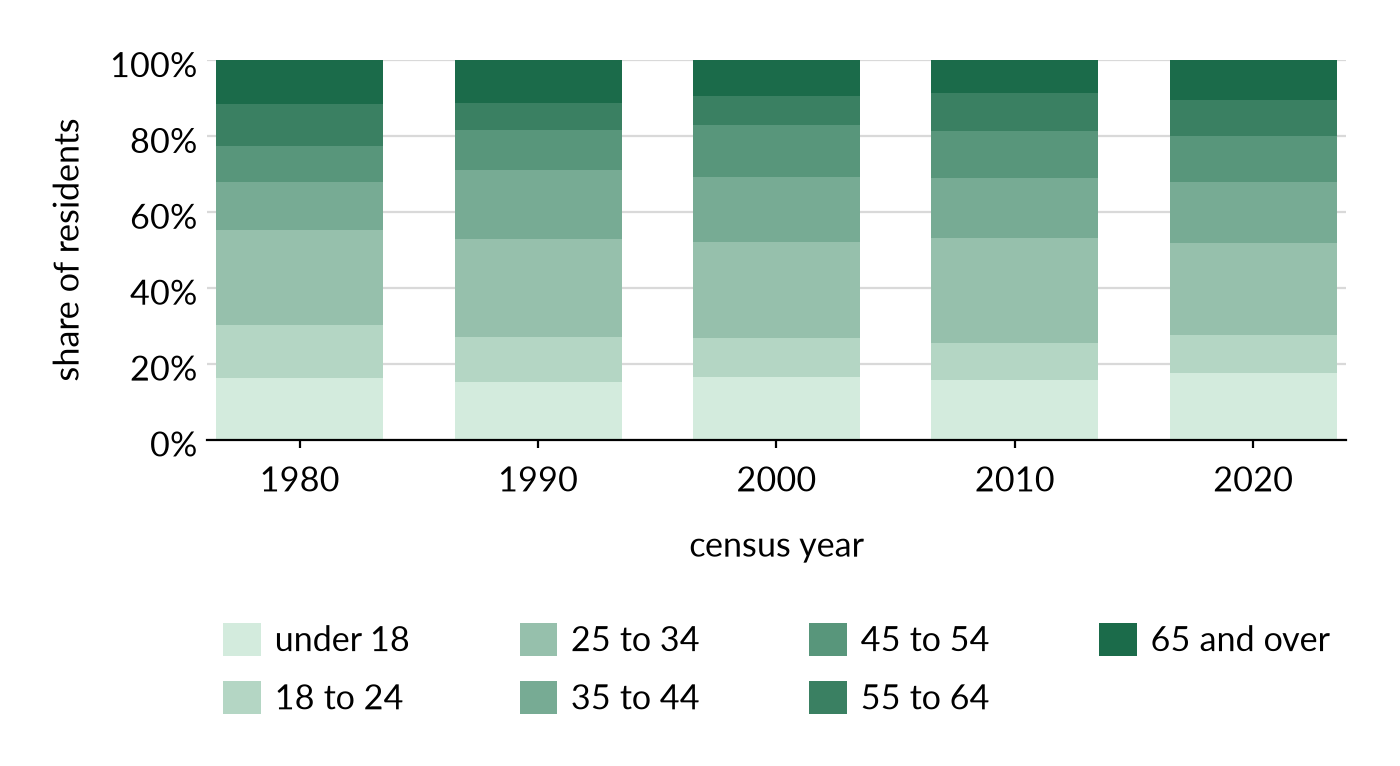
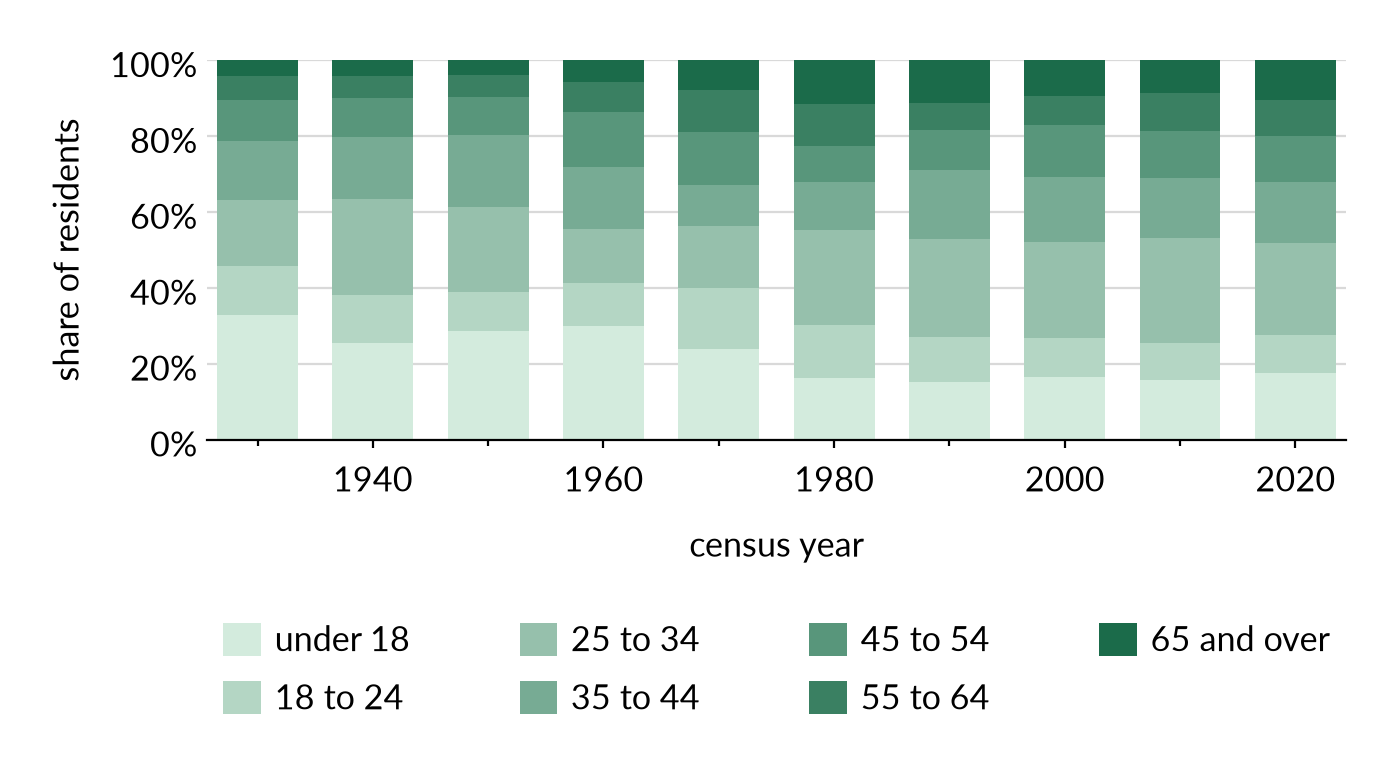
adults-before-1980 settled: residents_by_age and the turnout share panel start at 1930
residents_by_age draws the seven bands at every census from 1930, labelled
every twentieth year; panel (b) of turnout starts at the 1931 election,
its adults 21 and over through 1970 and 18 and over from 1971, with the
change carried in the caption as residents_by_race carries 1980's.
docs/residents.md and docs/voters.md say what backs each year; the raw
folder's README lists the sixteen scans fetched on demand.

diff --git a/code/analysis/residents_by_age.py b/code/analysis/residents_by_age.py
@@ -1,4 +1,4 @@
-"""Residents by age band, 1980-2020 -> figures/residents_by_age.pdf, .png
+"""Residents by age band, 1930-2020 -> figures/residents_by_age.pdf, .png
 
 One panel: every resident, as stacked bars in style.RESIDENT_AGES with the
 youngest band at the base. Shares rather than counts, and children included
@@ -10,7 +10,7 @@ import charts
 import paths
 import style
 
-FIRST = 1980         # the first census that reports age this way
+FIRST = 1930         # the first census whose county age table is held
 BARS = 7             # years per bar, as on the other census figures
 
 for profile in style.PROFILES:
@@ -25,7 +25,7 @@ for profile in style.PROFILES:
     stacked = charts.series(shares, style.RESIDENT_AGES)
     charts.stacked_bars(ax, c["year"], stacked, width=BARS)
     charts.shares(ax)
-    charts.years(ax, FIRST, 2020, bars=BARS)
+    charts.years(ax, FIRST, 2020, step=20, bars=BARS)
 
     charts.legend(fig, stacked, ncol=4)
     paths.save(fig, "residents_by_age", profile)

diff --git a/code/archive.py b/code/archive.py
@@ -3,7 +3,7 @@
     .venv/bin/python code/archive.py            # dry run: report, move nothing
     .venv/bin/python code/archive.py --apply    # file the folder, write index.md, build the zip
 
-The archive is the repository at HEAD, the six census scans data/contents.csv
+The archive is the repository at HEAD, the census scans data/contents.csv
 marks in_git = no, and the Drive documents folder: a copy of every source the
 report cites that no number is taken from. Its index is generated from
 paper/sources.bib and data/contents.csv, never written by hand, so it cannot

diff --git a/code/analysis/turnout.py b/code/analysis/turnout.py
@@ -39,7 +39,7 @@ for profile in style.PROFILES:
     charts.shares(b, label="share of adults")
     b.set_title("(b) share of adults")
     charts.years(a, 1930, 2020, step=20, label="November election", through=2028)
-    charts.years(b, 1980, 2020, step=20, label="November election", through=2028)
+    charts.years(b, 1930, 2020, step=20, label="November election", through=2028)
 
     charts.legend(fig, dict([style.PRESIDENT, *style.CYCLE.values()]), ncol=3)
     paths.save(fig, "turnout", profile)

diff --git a/docs/residents.md b/docs/residents.md
@@ -15,8 +15,6 @@ spike: the figure shows the size of the Board, not who sat.
 
 - Retrocession is dated 1846 or 1847 depending on the source; the report has
   to pick one (`retrocession-date`).
-- The age bands start at 1980, because nothing earlier is held in a
-  machine-readable form (`adults-before-1980`).
 
 Each is a row in `docs/questions.csv`, with an owner and what would settle it.
 
@@ -232,9 +230,9 @@ to 0.79 while adults per household barely moved (`censushh6`). The children
 born to the young families who filled Arlington in the 1940s and 50s turned
 18 across the 1970s and left, to careers and households of their own, and
 fewer were born behind them. A built-out inner suburb of small units feels
-that hardest. The Arlington-specific evidence, the under-18 count in the
-1970 and 1980 census age tables, is what `adults-before-1980` in
-docs/questions.csv would also transcribe.
+that hardest. Arlington's own age bands show it: residents under 18 fell from
+41,564 in 1970 to 24,969 in 1980, from 24 to 16 per cent of the county, while
+those 18 and over fell only from 132,720 to 127,630.
 
 ### What the Black share shows
 
@@ -255,21 +253,60 @@ How much of this the prose says is an open question.
 
 ---
 
-## Age, 1980 onward
+## Age, 1930 onward
 
-`residents.csv` carries the county in seven age bands from 1980: `ageunder18`,
+`residents.csv` carries the county in seven age bands from 1930: `ageunder18`,
 `age18to24`, `age25to34`, `age35to44`, `age45to54`, `age55to64` and
-`age65plus`. They sum to `total` at every census, and `residents_by_age`
-draws them as shares of it. There is no `adults` column: the adult
+`age65plus`. With `ageunknown` they sum to `total` at every census, and
+`residents_by_age` draws them as shares of it. `ageunknown` is the 14 people
+whose age the 1930 census did not record; from 1940 the Bureau's tables print
+no such line, and the column is 0. There is no `adults` column: the adult
 population is the six bands above `ageunder18`, summed where something needs
 it.
 
-**The cuts are the ones every census from 1980 shares.** 1980's Summary Tape
-File prints 35 to 44, 45 to 54, 65 to 74 and 75 to 84 as single groups, so
-no cut at 40, 50, 70 or 80 exists to take without splitting a published
-group, which would mean inventing a number. Every cut the bands do use — 18,
-25, 35, 45, 55, 65 — is a boundary printed in all five censuses, so no year
-is interpolated and the bands are the same object in 1980 as in 2020.
+**The cuts are the ones every census from 1930 shares.** 1930 prints 35 to
+44, 45 to 54, 55 to 64 and 65 to 74 as single groups, and 1980 does the same
+for 35 to 44, 45 to 54, 65 to 74 and 75 to 84, so no cut at 40, 50, 70 or 80
+exists to take without splitting a published group, which would mean
+inventing a number. Every cut the bands do use — 18, 25, 35, 45, 55, 65 — is
+a boundary printed for all ten censuses, so no year is interpolated and the
+bands are the same object in 1930 as in 2020.
+
+**1930 to 1970 are keyed in from the census volumes**, one file per printed
+table under `data/transcribed/by_claude/us_census_bureau/`, every line of
+Arlington's block as printed. Each was read off the rendered page and ties
+out: every run of lines the table prints in full sums to the county total it
+is printed against, and that total is the one the `total` column already
+holds.
+
+| Year | Age from | Tables |
+|---|---|---|
+| 1930 | `census1930v3p2` | Table 11, age, p.1150; Table 13, composition, p.1161 |
+| 1940 | `census1940v2p7` | Table 22, age, p.173; Table 21, composition, p.164 |
+| 1950 | `census1950va` | Table 41, age, p.46-74 |
+| 1960 | `census1960va` | Table 27, age, p.48-76 |
+| 1970 | `census1970va` | Table 35, age, p.48-122 |
+
+1950 to 1970 print a line at 18 in the age table itself: single years to 20
+in 1960 and 1970, and "16 and 17" and "18 and 19" beneath 15 to 19 in 1950.
+1930 and 1940 do not; their age tables run in five-year groups, and 15 to 19
+crosses 18. Each volume's composition table prints the population at the
+ages that cut there, so no band is estimated:
+
+- **1940.** Table 21 prints the persons 5 and 6, 7 to 13, 14 and 15, 16 and
+  17, 18 to 20, and 21 to 24 years old. `ageunder18` is Table 22's under 5
+  and Table 21's four groups to 17; `age18to24` is Table 21's 18 to 20 and
+  21 to 24. The two tables agree: Table 21's six groups make Table 22's 5
+  to 24, 16,730, and the 1950 volume's 1940 column prints 16 and 17 as 1,463,
+  as Table 21 does.
+- **1930.** Table 13 prints the persons 18 to 20 and the men and women 21 and
+  over. Everyone of known age is under 18, 18 to 20, or 21 and over, so
+  `ageunder18` is the county less the 14 of unknown age and those two
+  counts, and `age18to24` is 18 to 20 and 21 and over less Table 11's groups
+  from 25. Each is checked to lie between the printed groups either side of
+  its cut. The two counts each have a second reading: 18 to 20 against the
+  number attending school and the per cent printed beneath it, and 21 and
+  over against the 1940 volume's 1930 column, which prints 16,443.
 
 **Where each census's ages come from.** 1980 and 1990 from the archived
 Summary Tape Files, which name their age groups; 2000, 2010 and 2020 from
@@ -287,24 +324,24 @@ Both are `censusapi`.
 | 2010 | `censusapi` | SF1 P12, sex by age |
 | 2020 | `censusapi` | DHC P12, sex by age |
 
-**Three guards, because a mis-mapped band would be silent.** The bands must
+**Four guards, because a misread or mis-mapped band would be silent.** A
+keyed-in table whose printed runs do not sum to their totals, or a line whose
+men and women do not make it, is a misreading and stops the build. The bands must
 name every age group the source table has, exactly once — a group left out
 of all seven would simply never be counted, and the county total would still
 tie. The bands must then sum to the same county total the `total` column
 carries. And `turnout.csv`, which counts adults from a different table
 altogether (race by 18 and over), must agree exactly with the six adult
-bands summed; it does, at all five censuses. `code/tests.py` reintroduces
-each mistake and asserts the build refuses.
+bands summed; it does, at all five censuses from 1980, and in 1970, where
+the one reads the single years and the other the five-year groups.
+`code/tests.py` reintroduces each mistake and asserts the build refuses.
 
 **Children are counted.** They cannot vote, and the report's other age
 figure is about people who can serve, but a seventh of Arlington is under 18
 and the section is about the county rather than the electorate.
 `docs/figures.md` carries that reasoning and the rest of the figure's form.
 
-The series starts at 1980 because the Bureau's machine-readable county
-tables do. Earlier censuses printed county age tables in the bound volumes,
-and carrying the series back would mean keying them in by hand
-(`adults-before-1980`, which the turnout figure shares).
+The series starts at 1930, the earliest census whose volume is keyed in.
 
 ---
 
@@ -334,3 +371,11 @@ prod2/decennial/documents/ still serves the older 19-chunk run, and the three
 held files match it byte for byte. `code/fetch/census_volumes.py` therefore
 checks them against that path like any other chunk, and a full checkout is a
 provenance audit that downloads nothing.
+
+**The 1930 to 1970 volumes** are ten more PDFs, none committed: for each
+census the Bureau's front-matter file, on which the bibliography entry rests,
+and the chapter holding Arlington's age tables, 127MB between them. They are
+fetched and checked the same way. None has a text layer and none is OCR'd;
+each table was found by rendering the chapter's page headers and read off
+the page at 200 dpi. `data/raw/us_census_bureau/README.md` lists all sixteen
+files fetched on demand.

diff --git a/docs/voters.md b/docs/voters.md
@@ -13,8 +13,8 @@ history. The placeholders in the `source` columns are explained in
   found (`referendum-1938-margin`).
 - The presidential figure stacks three bands, and the pre-1924 nominees are a
   table in the build (`president-figure-form`).
-- Turnout's denominators: adults before 1980 (`adults-before-1980`), adults
-  after 2020 carried forward (`adults-after-2020`), registration before 2010
+- Turnout's denominators: adults after 2020 carried forward
+  (`adults-after-2020`), registration before 2010
   (`registration-before-2010`), and votes per seat standing in for ballots
   cast (`ballots-cast`).
 
@@ -133,12 +133,20 @@ voters are the Department of Elections' monthly locality report for October
 of each year from 2010 (`varegistration`), dated in the first days of
 November, which is as the books stood for the election; nothing earlier is
 online. The active list is `registered` and the inactive list is added in
-`registered_all`. The population 18 and over is the census: the 1980 and 1990
-Summary Tape Files' age tables and the API's tables for 2000–2020, all checked
-against the county total on every fetch, and carried between censuses on a
-straight line for the figure's share panel (`voting_age_est`, marked
-`derived`); after 2020 the 2020 count is carried forward, which overstates
-the 2021–25 shares a little. The presidential vote is `voters.csv`'s and is
+`registered_all`. The adults are the census's count of the people old enough
+to vote: 21 and over through 1970 (`voting_age_21`) and 18 and over from 1971,
+when the Twenty-sixth Amendment took effect (`voting_age`). 1930 to 1970 are
+the census volumes' county tables, keyed in and tied out as
+`docs/residents.md` describes; 1970 prints both ages. 1980 and 1990 are the
+Summary Tape Files' age tables and 2000–2020 the API's tables, all checked
+against the county total on every fetch. `voting_age_est` carries them between
+censuses on a straight line for the figure's share panel, marked `derived`:
+the 21-and-over counts through the November 1970 election, and from 1971 the
+18-and-over counts from 1970's 132,720; after 2020 the 2020 count is carried
+forward, which overstates the 2021–25 shares a little. The change of age adds
+9,261 people aged 18 to 20 to the 1970 denominator, and no series on the
+share panel steps at 1971: the presidential-year Board vote is 42 per cent of
+adults in 1968 and 46 per cent in 1972. The presidential vote is `voters.csv`'s and is
 marked `derived`. Three guards: the Board's voters can never exceed the
 registered voters, nor the presidential vote of the same year, and the
 registered can never exceed the adults.
@@ -154,18 +162,16 @@ else the November ballot carried (the `cycle` column: president, governor,
 midterm, delegates), because drawn as one line it is a sawtooth whose teeth
 are the ballot and not the Board. In a presidential year about nine in ten of
 the county's presidential voters also vote for the Board. As a share of the
-county's adults, the presidential-year Board vote rose from about a third in
-1980 to 57 per cent in 2024; the House of Delegates years, when the Board tops
+county's adults, the presidential-year Board vote was about a quarter from
+1940 to 1948, a third in 1952 and 1956, and rose to 42 per cent by 1968; it
+was about a third again in 1980 and 57 per cent in 2024; the House of Delegates years, when the Board tops
 the ballot, from a fifth to 30 per cent in 2023; and the midterm and
 governor's years sat at a third for decades and have converged on the
 presidential-year level since 2017. In November 2024: 196,563 adults (the 2020
 count), 164,865 active registered voters, 128,362 who voted for President and
 113,209 for the County Board.
 
-**What the denominators do not reach.** Adults before 1980: the 1930–1970
-censuses printed the county's population 21 and over (18 and over from 1970)
-in the state volumes, none of which is in `data/raw/`; with them the share
-panel would reach 1931, with a note at the 1971 change of age. Registration
+**What the denominators do not reach.** Registration
 before 2010 exists in the State Board of Elections' printed annual reports
 and nowhere online found. "Eligible" is not one series: citizenship by county
 exists only in the ACS from 2005, and before 1966 the poll tax and before 1920

diff --git a/docs/figures.md b/docs/figures.md
@@ -341,17 +341,15 @@ Decades collide at 6.25 inches, and rotated labels are slower to read.
   picture of the electorate when what the section is about is the county.
   For the same reason the denominator is every resident, not every adult.
 
-  It begins at 1980 while the Board figures begin at 1870, and the two are
+  It begins at 1930 while the Board figures begin at 1870, and the two are
   not drawn on a shared range. Nothing is lost by that. The Board series
   reaches back to 1870 because a Board member is one person whose birth
   year can be found in a census sheet or an obituary; a county age
-  distribution has to come from a published table, and the Bureau's
-  machine-readable county tables begin with the 1980 Summary Tape File.
-  Earlier censuses did print county age tables, but only in the bound
-  volumes, so carrying the series back would mean keying them in the way
-  the 1870-1890 totals were keyed in. That is a job the report has not
-  asked for; `adults-before-1980` in `docs/questions.csv` holds it, for
-  this figure and for the turnout one. The figure is a benchmark for the
+  distribution has to come from a published table, and 1930 is the
+  earliest census volume keyed in. Ten bars name every twentieth year, as
+  the other long census axes do. The 14 people of unknown age in 1930 are
+  in no band, so that bar stops 0.05 per cent short of the top, which no
+  one can see and nothing marks. The figure is a benchmark for the
   residents section and is never put on a panel with the Board's ages:
   there is no defensible right age for a Board member, and a shared panel
   would imply there is. Two figures in two sections, each on the range its
@@ -439,7 +437,10 @@ Decades collide at 6.25 inches, and rotated labels are slower to read.
   reference line. The district-era counts and the registered voters are in
   the table and not drawn: the registration series is fifteen years long,
   and the prose can state it in a sentence. The share panel starts where its
-  denominator does, so its frame is not half empty.
+  denominator does, so its frame is not half empty. Its adults are 21 and
+  over through 1970 and 18 and over from 1971, and nothing marks the change:
+  as with residents_by_race at 1980, it is real but small, no line steps at
+  it, and a rule would claim more for it than it has. The caption carries it.
 - **board_peers_residents, board_peers_density.** Arlington beside every
   Virginia city and county of 100,000 or more, two separate figures rather
   than panels, because each answers a different question about who

diff --git a/data/raw/us_census_bureau/README.md b/data/raw/us_census_bureau/README.md
@@ -1,12 +1,13 @@
 # Census volumes not kept in git
 
-Six scans the build never reads are not in this repository, because together
-they are 50MB and would push Overleaf past its ceiling. `data/contents.csv` has
-each one's URL and checksum. To fetch them, refusing any byte that differs:
+Sixteen scans the build never reads are not in this repository, because together
+they are 175MB and would push Overleaf past its ceiling. `data/contents.csv`
+has each one's URL and checksum. To fetch them, refusing any byte that differs:
 
     .venv/bin/python code/fetch/census_volumes.py
 
-The six:
+The 1880 and 1890 interior chunks, which hold the tables the county totals
+and race counts were read from:
 
 - `1880/1880_v1-12.pdf`
 - `1880/1880_v1-13.pdf`
@@ -15,5 +16,14 @@ The six:
 - `1890/1890a_v1-13.pdf`
 - `1890/1890a_v1-14.pdf`
 
-The scans that are in git are the title-page chunks and the tables the
-transcriptions were read from. Nothing here is edited.
+The 1930-1970 volumes' front matter, on which each bibliography entry rests,
+and the chapter holding Arlington's age tables:
+
+- `1930/10612982v3p2.pdf`, `1930/10612982v3p2ch10.pdf`
+- `1940/33973538v2p7.pdf`, `1940/33973538v2p7ch3.pdf`
+- `1950/37784122v2p46.pdf`, `1950/37784122v2p46ch3.pdf`
+- `1960/09768066v1p48.pdf`, `1960/09768066v1p48ch3.pdf`
+- `1970/00496492v1p48.pdf`, `1970/00496492v1p48ch03.pdf`
+
+The scans that are in git are the 1870 chunks and the 1880 and 1890
+title-page chunks. Nothing here is edited.
